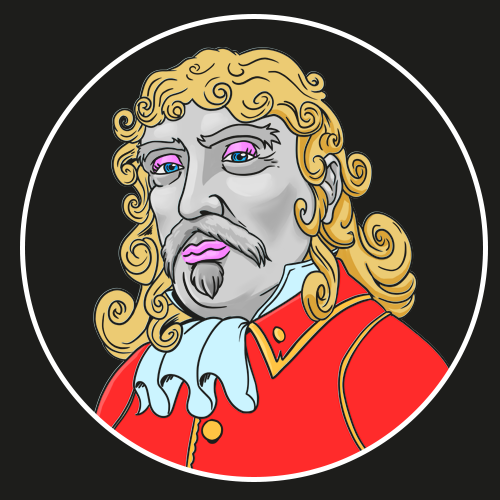
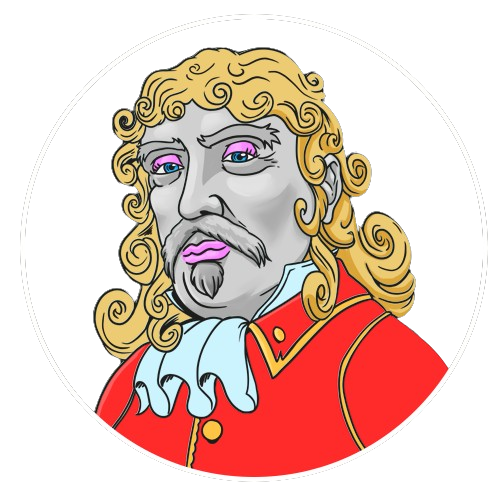
fix: use better background and image

diff --git a/css/main.css b/css/main.css
@@ -7,14 +7,27 @@ html,
 body {
   height: 100%;
   color: white;
-  background-color: #1D1D1B;
+  background: repeating-linear-gradient(
+    90deg,
+    #1D1D1B,
+    #1D1D1B 10px,
+    #222222 10px,
+    #222222 20px
+  );
+  /* background-color: #1D1D1B; */
   text-align: center;
   font-family: myFirstFont;
+  font-size: 24px;
 }
 
 h1 {
-  font-size: 1000;
 }
+
+.main-logo { 
+  filter: drop-shadow(5px 5px 5px #FA84FF); 
+  max-width: 400px; 
+  height: auto; 
+} 
 
 .main-content {
     display: table-cell;

diff --git a/index.html b/index.html
@@ -9,9 +9,9 @@
 </head>
 <body>
     <div class="row">
-        <div class="col-4 col-offset-4">
+        <div class=".col-md-4 .offset-md-4">
             <h1>Joe Litty Little Band</h1>
-            <img src="public/main.png" alt="Joe Litty logo">
+            <img class="main-logo" src="public/main.png" alt="Joe Litty logo">
             <h2>La cover band del rock internazionale tradotto in italiano!</h2>
             <h3>Seguici su</h3>
             <div class="social-buttons">
